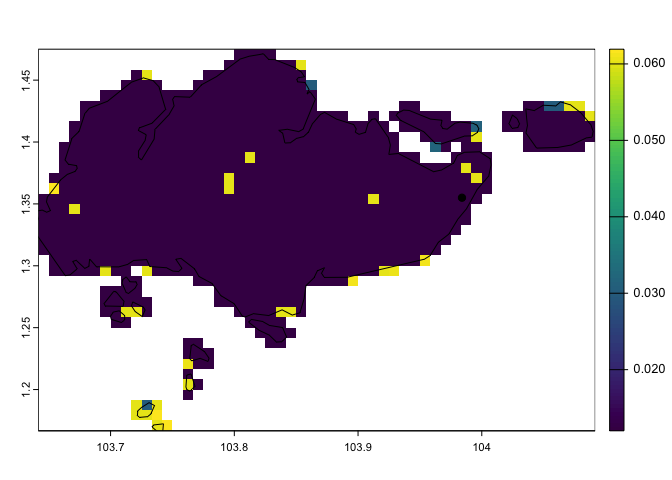
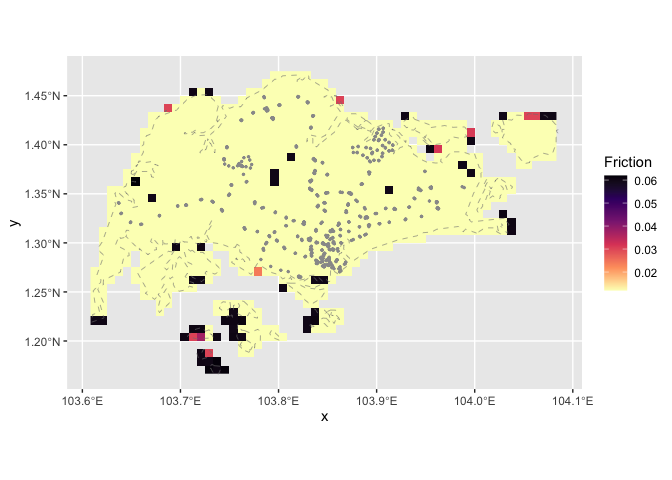
update readme example

diff --git a/README.md b/README.md
@@ -53,16 +53,15 @@ install.packages("traveltime", repos = c("https://idem-lab.r-universe.dev"))
 
 ## Let’s calculate some travel times
 
-First download a friction surface — here using the motorised travel time
-from Weiss *et al.* 2020.
+First download a friction surface –— here we are using the motorised
+travel time from Weiss *et al.* 2020. We use the function
+`traveltime::get_friction_surface`, specify the surface (type) as
+`"motor2020"`, and provide the spatial extent of interest:
 
 ``` r
 library(traveltime)
 library(terra)
-#> terra 1.7.79
-```
-
-``` r
+#> terra 1.7.83
 
 friction_surface <- get_friction_surface(
     surface = "motor2020",
@@ -78,9 +77,6 @@ friction_surface <- get_friction_surface(
 #> <GMLEnvelope>
 #> ....|-- lowerCorner: 0 111
 #> ....|-- upperCorner: 1 112
-```
-
-``` r
 friction_surface
 #> class       : SpatRaster 
 #> dimensions  : 120, 120, 1  (nrow, ncol, nlyr)
@@ -91,7 +87,7 @@ friction_surface
 #> name        : friction_surface
 ```
 
-Let’s have a look at that
+Let’s have a look at that `SpatRaster`:
 
 ``` r
 plot(friction_surface)
@@ -99,7 +95,7 @@ plot(friction_surface)
 
 <img src="man/figures/README-unnamed-chunk-3-1.png" width="100%" />
 
-Prepare points we would like to calculate travel time from
+Now, prepare points that we would like to calculate travel time from:
 
 ``` r
 from_here <- tibble::tibble(
@@ -114,7 +110,9 @@ from_here
 #> 2  112.  0.35
 ```
 
-And calculate the travel time
+And calculate the travel time from our points `from_here` over the
+friction surface `friction_surface` using the function
+`traveltime::calculate_travel_time`:
 
 ``` r
 travel_time <- calculate_travel_time(
@@ -133,42 +131,52 @@ travel_time
 #> max value   :    582.1882
 ```
 
-Et voila!
+Et voila! Here is the motorised travel time in minutes for each cell,
+with our points in pink.
 
 ``` r
 plot(travel_time)
-points(from_here, pch = 19)
+points(from_here, pch = 19, col = "hotpink")
 ```
 
 <img src="man/figures/README-unnamed-chunk-6-1.png" width="100%" />
 
-## Let’s go to Singapore
+## A more tangible example: Walking in Singapore
 
-Here it is:
+Let’s create a map of the walking time across the island of Singapore
+from the nearest [MRT or
+LRT](https://en.wikipedia.org/wiki/Transport_in_Singapore#Rail_transport)
+station.
+
+To do this, we need:
+
+- a map of Singapore
+- locations of the stations
+
+Here’s our basemap via `geodata`:
 
 ``` r
-# install.packages("sdmtools", repos = "https://idem-lab.r-universe.dev")
-library(sdmtools) 
-sin <- sdmtools::make_africa_mask(
-  type = "vector",
-  countries = "SGP"
+#install.packages("geodata")
+library(geodata)
+sin <- gadm(
+  country = "Singapore",
+  level = 0,
+  path = tempdir(),
+  resolution = 2
 )
-#> Please Note: Because you did not provide a version, by default the version being used is 202403 (This is the most recent version of admin unit shape data. To see other version options use function listShpVersions)
-#> although coordinates are longitude/latitude, st_union assumes that they are
-#> planar
-```
-
-``` r
 plot(sin)
 ```
 
 <img src="man/figures/README-unnamed-chunk-7-1.png" width="100%" />
 
-We’re going to see how long it takes to walk home from Changi Airport.
-So we’ll download the walking-only friction surface this time.
+We’re going to see how long it takes to walk home from a station, so
+we’ll download the walking-only friction surface this time by specifying
+`surface = "walk2020`.
 
-We can feed in our `sin` `SpatVector` directly as the `extent`, instead
-of specifying by hand as above.
+We can also pass in our basemap `sin`, a `SpatVector`, directly as the
+`extent`, instead of specifying by hand as above. We’re also only
+interested in walking *on land* so we mask out areas outside of `sin`,
+that are within the extent of the raster:
 
 ``` r
 library(traveltime)
@@ -185,79 +193,41 @@ friction_singapore <- get_friction_surface(
 #>   - Explorer__2020_walking_only_friction_surface:  DEFAULT
 #> 
 #> <GMLEnvelope>
-#> ....|-- lowerCorner: 1.164 103.6383
-#> ....|-- upperCorner: 1.4713 104.09
-```
-
-``` r
+#> ....|-- lowerCorner: 1.1664 103.6091
+#> ....|-- upperCorner: 1.4714 104.0858
 
 friction_singapore
 #> class       : SpatRaster 
-#> dimensions  : 37, 54, 1  (nrow, ncol, nlyr)
+#> dimensions  : 37, 57, 1  (nrow, ncol, nlyr)
 #> resolution  : 0.008333333, 0.008333333  (x, y)
-#> extent      : 103.6417, 104.0917, 1.166667, 1.475  (xmin, xmax, ymin, ymax)
+#> extent      : 103.6083, 104.0833, 1.166667, 1.475  (xmin, xmax, ymin, ymax)
 #> coord. ref. : lon/lat WGS 84 (EPSG:4326) 
 #> source(s)   : memory
-#> varname     : Explorer__2020_walking_only_friction_surface_1.164,103.6383,1.4713,104.09 
+#> varname     : Explorer__2020_walking_only_friction_surface_1.1664,103.6091,1.4714,104.0858 
 #> name        : friction_surface 
 #> min value   :       0.01200000 
 #> max value   :       0.06192715
 ```
 
-And where is Changi Airport?
+The the `stations` data set in this package contains the longitude and
+latitude of all LRT and MRT station exits in Singapore[^1].
 
 ``` r
-changi_airport <- tibble::tibble(
-  x = c(103.984),
-  y = c(1.355)
-)
-changi_airport
-#> # A tibble: 1 × 2
-#>       x     y
-#>   <dbl> <dbl>
-#> 1  104.  1.36
+head(stations)
+#>             x        y
+#> [1,] 103.9091 1.334922
+#> [2,] 103.9335 1.336555
+#> [3,] 103.8493 1.297699
+#> [4,] 103.8508 1.299195
+#> [5,] 103.9094 1.335311
+#> [6,] 103.9389 1.344999
 ```
 
-Let’s look at those.
+Let’s look at our data now.
 
-``` r
-plot(friction_singapore)
-plot(sin, add = TRUE)
-points(changi_airport, pch = 19)
-```
-
-<img src="man/figures/README-unnamed-chunk-10-1.png" width="100%" />
-
-And calculate the travel time
-
-``` r
-travel_time_sin <- calculate_travel_time(
-  friction_surface = friction_singapore,
-  points = changi_airport
-)
-travel_time_sin
-#> class       : SpatRaster 
-#> dimensions  : 37, 54, 1  (nrow, ncol, nlyr)
-#> resolution  : 0.008333333, 0.008333333  (x, y)
-#> extent      : 103.6417, 104.0917, 1.166667, 1.475  (xmin, xmax, ymin, ymax)
-#> coord. ref. :  
-#> source(s)   : memory
-#> name        : travel_time 
-#> min value   :           0 
-#> max value   :         Inf
-```
-
-Et voi*lah*!
-
-``` r
-plot(travel_time_sin)
-points(changi_airport, pch = 19)
-plot(sin, add = TRUE)
-```
-
-<img src="man/figures/README-unnamed-chunk-12-1.png" width="100%" />
-
-### I want my plots to be nicer
+Below we plot the friction surface raster `friction_singapore`, with the
+vector boundary of `sin` as a dashed grey line, and `stations` as grey
+points:
 
 ``` r
 library(tidyterra)
@@ -269,32 +239,72 @@ library(tidyterra)
 #> The following object is masked from 'package:stats':
 #> 
 #>     filter
-```
-
-``` r
 library(ggplot2)
 
 ggplot() +
-  # plot the spatraster first
   geom_spatraster(
-    data = travel_time_sin
+    data = friction_singapore
   ) +
-  theme_minimal() +
-  scale_fill_whitebox_c(palette = "deep") +
-  # overlay the vector outline
   geom_spatvector(
     data = sin,
-    colour = "grey70",
-    linewidth = 1,
-    fill = NA
+    fill = "transparent",
+    col = "grey50",
+    lty = 2
   ) +
-  # add the points from tibble
-   geom_point(
-     data = changi_airport,
-     aes(x = x, y = y),
-     colour = "hotpink"
-   ) +
-  labs(x = NULL, y = NULL, fill = "Travel time\n(minutes)") 
+  geom_point(
+    data = stations,
+    aes(
+      x = x,
+      y = y
+    ),
+    col = "grey60",
+    size = 0.5
+  ) +
+  scale_fill_viridis_c(
+    option = "A",
+    na.value = "transparent",
+    direction = -1
+  ) +
+  labs(
+    fill = "Friction"
+  )
 ```
 
-<img src="man/figures/README-unnamed-chunk-13-1.png" width="100%" />
+<img src="man/figures/README-unnamed-chunk-10-1.png" width="100%" />
+
+OK, now we want to calculate the walking travel time in minutes across
+the friction surface from the nearest station exit:
+
+``` r
+travel_time_sin <- calculate_travel_time(
+  friction_surface = friction_singapore,
+  points = stations
+)
+travel_time_sin
+#> class       : SpatRaster 
+#> dimensions  : 37, 57, 1  (nrow, ncol, nlyr)
+#> resolution  : 0.008333333, 0.008333333  (x, y)
+#> extent      : 103.6083, 104.0833, 1.166667, 1.475  (xmin, xmax, ymin, ymax)
+#> coord. ref. :  
+#> source(s)   : memory
+#> name        : travel_time 
+#> min value   :           0 
+#> max value   :         Inf
+```
+
+Et voi*lah* — a raster of walking time from the nearest station.
+
+``` r
+contour(
+  x = travel_time_sin,
+  filled = TRUE,
+  nlevels = 20,
+  col = viridis::magma(19, direction = -1)
+)
+```
+
+<img src="man/figures/README-unnamed-chunk-12-1.png" width="100%" />
+
+[^1]: Land Transport Authority. (2019). LTA MRT Station Exit (GEOJSON)
+    (2024) \[Dataset\]. data.gov.sg. Retrieved December 10, 2024 from
+    <https://data.gov.sg/datasets/d_b39d3a0871985372d7e1637193335da5/view>
